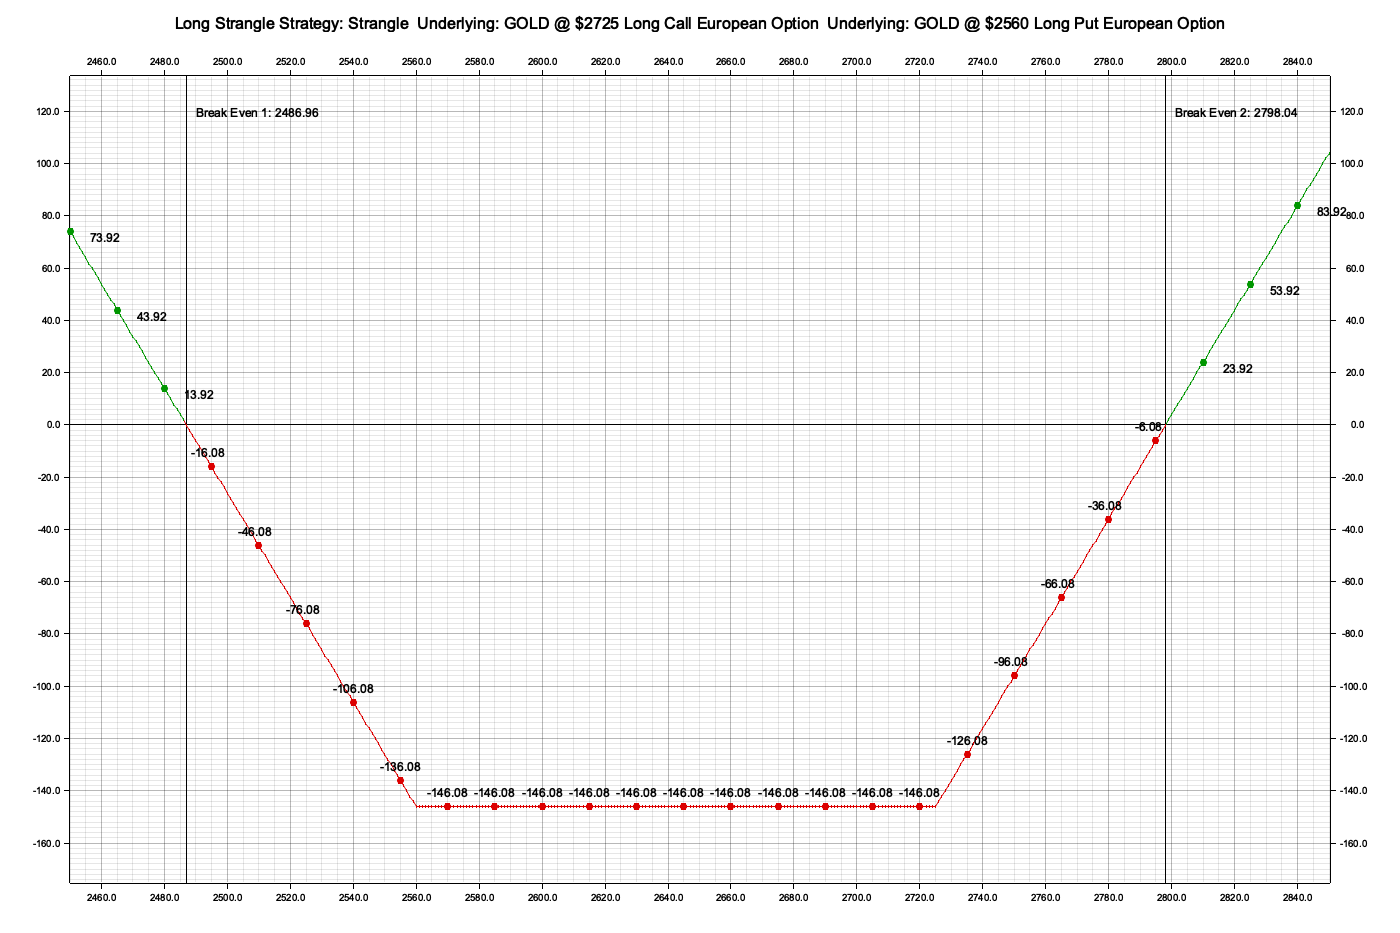
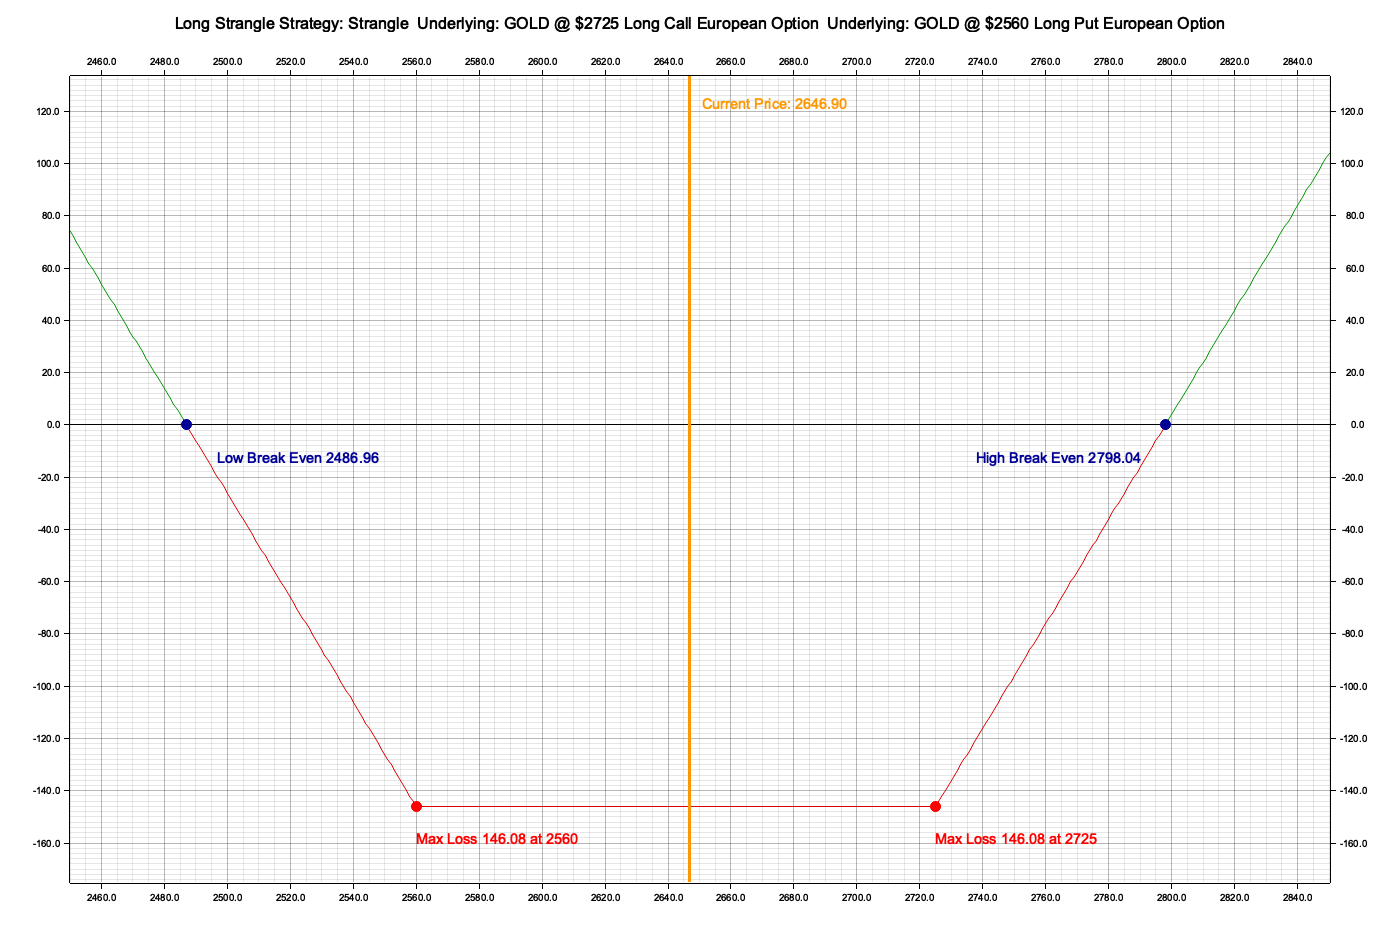
Update strangle strategy point calculations and chart visuals
Revise coordinates and labels for better chart readability. Change color scheme for key points and vertical lines to improve clarity. Adjust break-even points logic for improved accuracy.

diff --git a/src/strategies/strangle.rs b/src/strategies/strangle.rs
@@ -19,7 +19,7 @@ use crate::visualization::model::{ChartPoint, ChartVerticalLine};
 use crate::visualization::utils::Graph;
 use chrono::Utc;
 use plotters::prelude::full_palette::ORANGE;
-use plotters::prelude::{ShapeStyle, BLACK};
+use plotters::prelude::{ShapeStyle, RED};
 
 const SHORT_STRANGLE_DESCRIPTION: &str =
     "A short strangle involves selling an out-of-the-money call and an \
@@ -238,10 +238,36 @@ impl Graph for ShortStrangle {
             font_size: 18,
         });
 
+        let coordiantes: (f64, f64) = (
+            self.short_put.option.strike_price / 250.0,
+            self.max_profit() / 15.0,
+        );
         points.push(ChartPoint {
             coordinates: (self.short_call.option.strike_price, self.max_profit()),
-            label: format!("Max Profit\n\n{:.2}", self.max_profit()),
-            label_offset: (30.0, 10.0),
+            label: format!(
+                "Max Profit {:.2} at {:.0}",
+                self.max_profit(),
+                self.short_call.option.strike_price
+            ),
+            label_offset: coordiantes,
+            point_color: DARK_GREEN,
+            label_color: DARK_GREEN,
+            point_size: 5,
+            font_size: 18,
+        });
+
+        let coordiantes: (f64, f64) = (
+            -self.short_put.option.strike_price / 30.0,
+            self.max_profit() / 15.0,
+        );
+        points.push(ChartPoint {
+            coordinates: (self.short_put.option.strike_price, self.max_profit()),
+            label: format!(
+                "Max Profit {:.2} at {:.0}",
+                self.max_profit(),
+                self.short_put.option.strike_price
+            ),
+            label_offset: coordiantes,
             point_color: DARK_GREEN,
             label_color: DARK_GREEN,
             point_size: 5,
@@ -343,12 +369,13 @@ impl LongStrangle {
 
         let net_quantity =
             (long_call.option.quantity as f64 + long_put.option.quantity as f64) / 2.0;
+
         strategy
             .break_even_points
-            .push(put_strike - strategy.net_premium_received() / net_quantity);
+            .push(put_strike - strategy.total_cost() / net_quantity);
         strategy
             .break_even_points
-            .push(call_strike + strategy.net_premium_received() / net_quantity);
+            .push(call_strike + strategy.total_cost() / net_quantity);
 
         strategy
     }
@@ -417,20 +444,78 @@ impl Graph for LongStrangle {
     }
 
     fn get_vertical_lines(&self) -> Vec<ChartVerticalLine<f64, f64>> {
-        let mut vertical_lines: Vec<ChartVerticalLine<f64, f64>> = vec![];
-        for break_even_point in self.break_even_points.clone() {
-            vertical_lines.push(ChartVerticalLine {
-                x_coordinate: break_even_point,
-                y_range: (-50000.0, 50000.0),
-                label: "Break Even".to_string(),
-                label_offset: (5.0, 5.0),
-                line_color: BLACK,
-                label_color: BLACK,
-                line_style: ShapeStyle::from(&BLACK).stroke_width(1),
-                font_size: 18,
-            });
-        }
+        let max_value = self.max_loss() * 1.2;
+        let min_value = self.max_loss() * -1.2;
+
+        let vertical_lines = vec![ChartVerticalLine {
+            x_coordinate: self.long_call.option.underlying_price,
+            y_range: (min_value, max_value),
+            label: format!(
+                "Current Price: {:.2}",
+                self.long_call.option.underlying_price
+            ),
+            label_offset: (4.0, -50.0),
+            line_color: ORANGE,
+            label_color: ORANGE,
+            line_style: ShapeStyle::from(&ORANGE).stroke_width(2),
+            font_size: 18,
+        }];
+
         vertical_lines
+    }
+
+    fn get_points(&self) -> Vec<ChartPoint<(f64, f64)>> {
+        let mut points: Vec<ChartPoint<(f64, f64)>> = Vec::new();
+
+        points.push(ChartPoint {
+            coordinates: (self.break_even_points[0], 0.0),
+            label: format!("Low Break Even {}", self.break_even_points[0]),
+            label_offset: (10.0, -10.0),
+            point_color: DARK_BLUE,
+            label_color: DARK_BLUE,
+            point_size: 5,
+            font_size: 18,
+        });
+
+        points.push(ChartPoint {
+            coordinates: (self.break_even_points[1], 0.0),
+            label: format!("High Break Even {}", self.break_even_points[1]),
+            label_offset: (-60.0, -10.0),
+            point_color: DARK_BLUE,
+            label_color: DARK_BLUE,
+            point_size: 5,
+            font_size: 18,
+        });
+
+        points.push(ChartPoint {
+            coordinates: (self.long_call.option.strike_price, -self.max_loss()),
+            label: format!(
+                "Max Loss {:.2} at {:.0}",
+                self.max_loss(),
+                self.long_call.option.strike_price
+            ),
+            label_offset: (0.0, -10.0),
+            point_color: RED,
+            label_color: RED,
+            point_size: 5,
+            font_size: 18,
+        });
+
+        points.push(ChartPoint {
+            coordinates: (self.long_put.option.strike_price, -self.max_loss()),
+            label: format!(
+                "Max Loss {:.2} at {:.0}",
+                self.max_loss(),
+                self.long_put.option.strike_price
+            ),
+            label_offset: (0.0, -10.0),
+            point_color: RED,
+            label_color: RED,
+            point_size: 5,
+            font_size: 18,
+        });
+
+        points
     }
 }
 
@@ -592,7 +677,7 @@ mod tests_long_strangle {
         assert_eq!(strategy.kind, StrategyType::Strangle);
         assert_eq!(strategy.description, LONG_STRANGLE_DESCRIPTION);
 
-        let break_even_points = vec![140.0, 160.0];
+        let break_even_points = vec![128.0, 172.0];
         assert_eq!(strategy.break_even_points, break_even_points);
     }
 

diff --git a/examples/strategy_short_strangle.rs b/examples/strategy_short_strangle.rs
@@ -9,7 +9,7 @@ use tracing::info;
 fn main() -> Result<(), Box<dyn Error>> {
     setup_logger();
 
-    let underlying_price = 7018.5;
+    let underlying_price = 7138.5;
 
     let strategy = ShortStrangle::new(
         "CL".to_string(),
